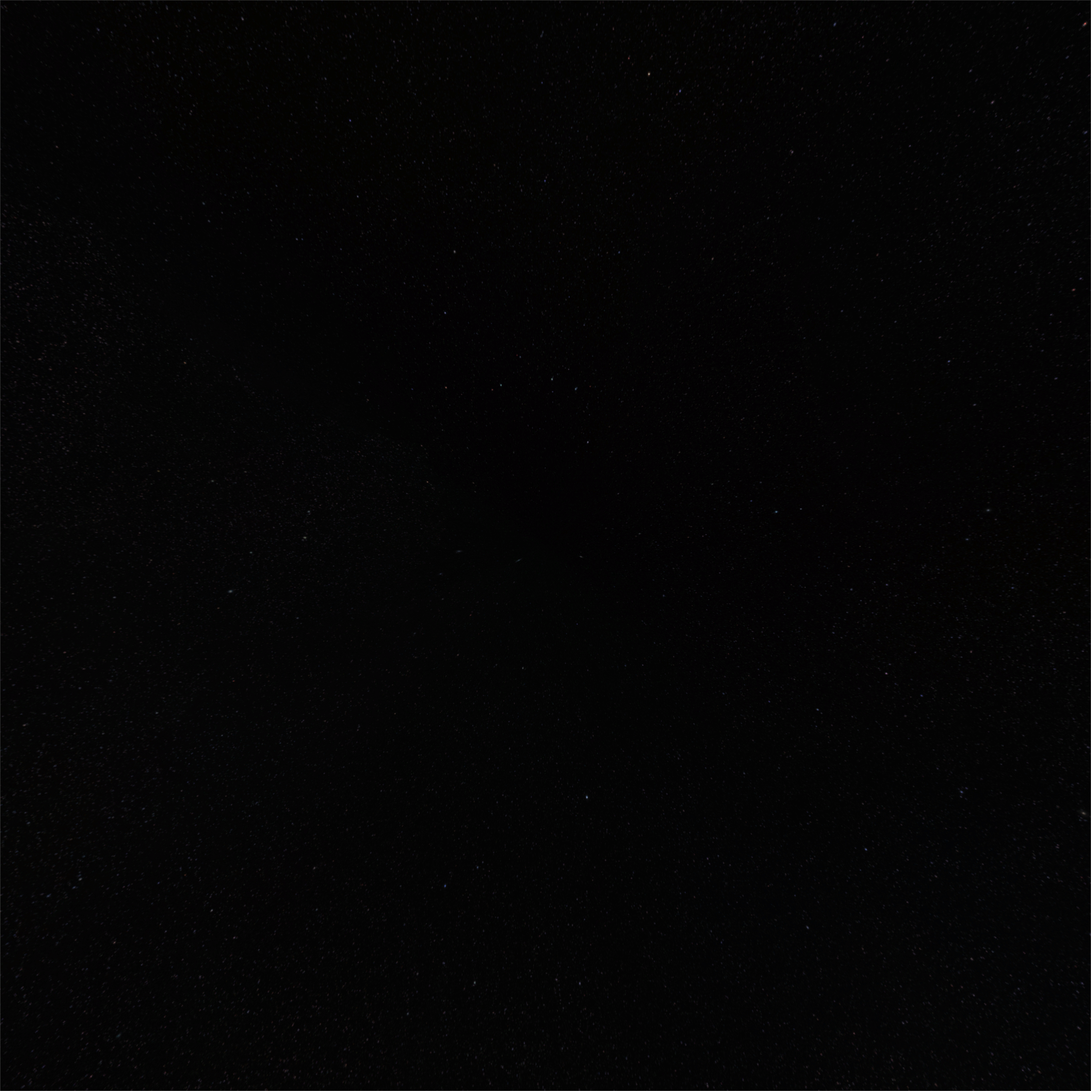
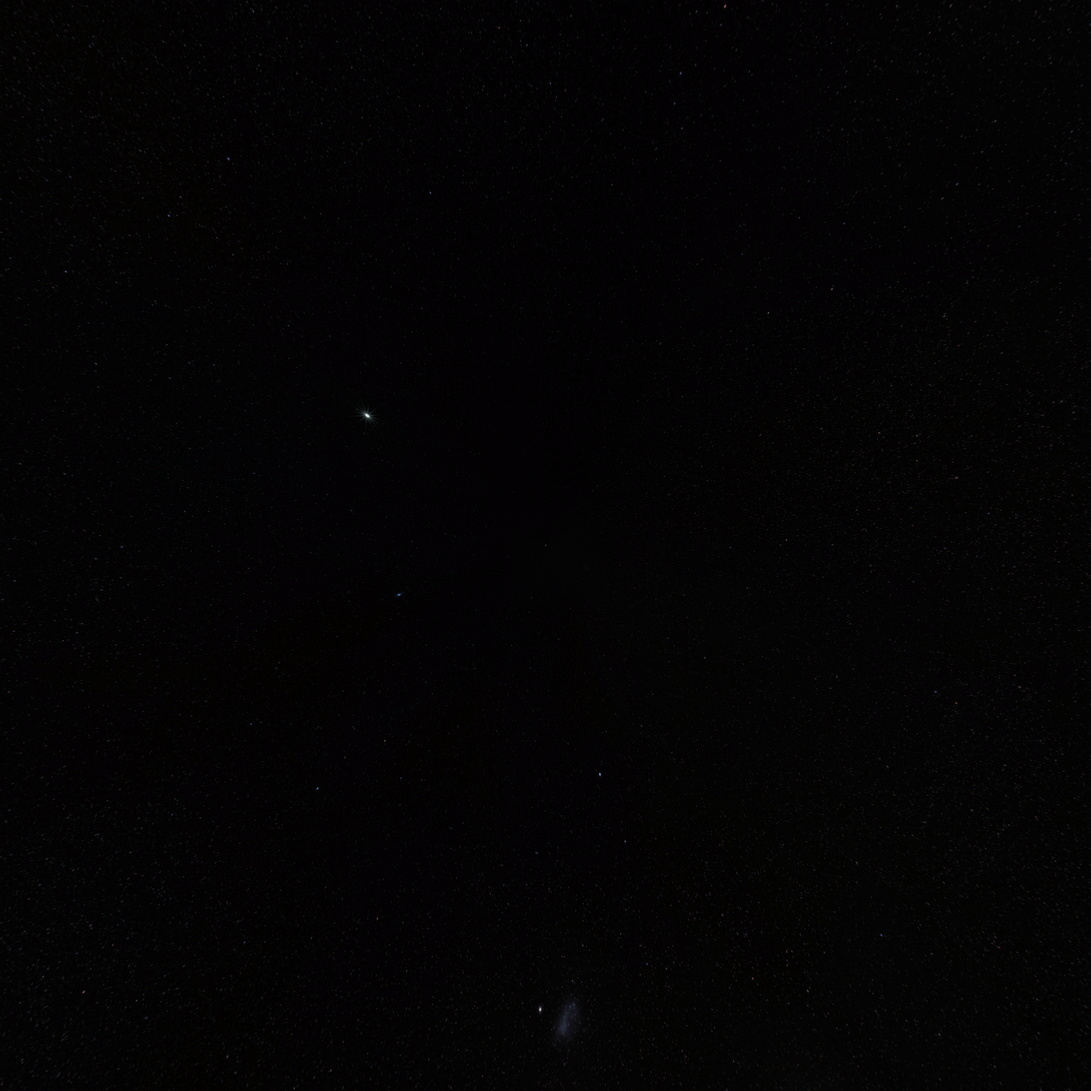
fix skybox, update light, set scale for Earth

Changed region(s): [[0.5, 0.9062, 0.5312, 0.9688]]

diff --git a/simulation.py b/simulation.py
@@ -4,7 +4,7 @@ import os
 import panda3d.core as p3d
 from direct.showbase.ShowBase import ShowBase
 from panda3d.core import Shader
-from panda3d.core import AmbientLight, DirectionalLight, PointLight, Spotlight
+from panda3d.core import AmbientLight, DirectionalLight
 from panda3d.core import CardMaker, NodePath, TransparencyAttrib, DepthTestAttrib, RenderAttrib, BillboardEffect
 from panda3d.core import LineSegs, LPoint3, LVector3
 
@@ -26,10 +26,20 @@ class App(ShowBase):
         super().__init__()
         self.pipeline = simplepbr.init()
 
+        self.central_node = self.render.attachNewNode("central_node")
+        self.central_node.setPos(0, 0, 0)
+        self.central_node.setR(23.5)
+        
         # Загрузка модели GLTF
         try:
+            radius = 6.371
             self.model = self.loader.loadModel("models/earth/scene.gltf")
-            self.model.reparentTo(self.render)
+            self.model.reparentTo(self.central_node)
+            pt1, pt2 = self.model.getTightBounds()
+            size = pt2.getX() - pt1.getX()
+            scale = radius / size
+            self.model.setScale(scale)
+            self.model.setPos(0, 0, 0)
             print("Model loaded successfully")
         except Exception as e:
             print(f"Error loading model: {e}")
@@ -38,7 +48,7 @@ class App(ShowBase):
         try:
             self.skybox_cubemap = self.loader.loadCubeMap("models/skybox/face_#.png")
             self.skybox = self.loader.loadModel("models/skybox/skybox.egg")
-            self.skybox.reparentTo(self.render)
+            self.skybox.reparentTo(self.central_node)
             self.skybox.setShader(Shader.load(Shader.SLGLSL, "shaders/skybox_vert.glsl", "shaders/skybox_frag.glsl"))
             self.skybox.setShaderInput("TexSkybox", self.skybox_cubemap)
             self.skybox.setAttrib(DepthTestAttrib.make(RenderAttrib.MLessEqual))
@@ -46,10 +56,6 @@ class App(ShowBase):
             print("Skybox loaded successfully")
         except Exception as e:
             print(f"Error loading skybox: {e}")
-
-        # Установка модели
-        self.model.setPos(0, 0, 0)
-        self.model.setScale(7)
 
         # Установка камеры
         self.camera.setPos(0, -40, 0)  # Отодвиньте камеру дальше
@@ -86,15 +92,12 @@ class App(ShowBase):
         self.accept("wheel_up", self.zoom_in)
         self.accept("wheel_down", self.zoom_out)
 
-
-        #self.setup_sprite(0, 0, 0)
-        #self.setup_orbit()
         self.setup_satellite()
 
     def setup_satellite(self):
-        self.satellites = [Satellite(a=200, e=0.7, i=np.radians(30), omega=np.radians(45), w=np.radians(60), m=np.radians(90)),
-                           Satellite(a=200, e=0.7, i=np.radians(30), omega=np.radians(45), w=np.radians(60), m=np.radians(270)),
-                           Satellite(a=100, e=0.1, i=np.radians(-57), omega=np.radians(50), w=np.radians(0), m=np.radians(0))]
+        self.satellites = [Satellite(a=40, e=0.7, i=np.radians(30), omega=np.radians(45), w=np.radians(60), m=np.radians(90)),
+                           Satellite(a=40, e=0.7, i=np.radians(30), omega=np.radians(45), w=np.radians(60), m=np.radians(270)),
+                           Satellite(a=6, e=0.1, i=np.radians(-57), omega=np.radians(50), w=np.radians(0), m=np.radians(0))]
         self.t0 = time.time()
         for satellite in self.satellites:
             x, y, z = satellite.position(self.t0, self.t0)
@@ -119,7 +122,7 @@ class App(ShowBase):
 
         # Количество сегментов для круга
         num_segments = 1000
-        orbit_points = satellite.orbit(1000)
+        orbit_points = satellite.orbit(num_segments)
 
         # Рисуем круг
         for x, y, z in orbit_points:
@@ -130,7 +133,7 @@ class App(ShowBase):
         orbit = NodePath(orbit_node)
 
         # Прикрепляем орбиту к сцене
-        orbit.reparent_to(self.model)
+        orbit.reparent_to(self.central_node)
         orbit.setLightOff()
 
         # Устанавливаем позицию орбиты относительно сцены
@@ -139,8 +142,9 @@ class App(ShowBase):
 
     def setup_sprite(self, x, y ,z):
         # Создаем CardMaker для создания спрайта
+        size = 0.5
         cm = CardMaker("sprite")
-        cm.set_frame(-1, 1, -1, 1)  # Размеры спрайта
+        cm.set_frame(-size, size, -size, size)  # Размеры спрайта
 
         # Создаем NodePath для спрайта
         sprite_node = cm.generate()
@@ -154,31 +158,16 @@ class App(ShowBase):
         sprite.set_transparency(TransparencyAttrib.M_alpha)
 
         # Прикрепляем спрайт к сцене
-        sprite.reparent_to(self.model)
+        sprite.reparent_to(self.central_node)
 
         # Устанавливаем позицию спрайта относительно сцены
         sprite.set_pos(x, y, z)  # Позиция спрайта в сцене
-        sprite.set_scale(5)  # Масштаб спрайта
 
         # Применяем эффект билборда, чтобы спрайт всегда был повернут к камере
         sprite.set_billboard_point_eye()
 
-        # Настраиваем спрайт, чтобы он не изменял размер при приближении камеры
-        sprite.setScale(5)
+        # Отключаем освещение для спрайта
         sprite.setLightOff()
-
-        def updateSpriteScale(task):
-            # Получаем расстояние от камеры до спрайта
-            distance = sprite.getPos(self.camera).length()
-
-            # Устанавливаем масштаб спрайта в зависимости от расстояния
-            scale = 3 * (np.sqrt(distance) / 20)
-            sprite.setScale(scale)
-
-            return task.cont
-
-        # Настраиваем обновление масштаба спрайта
-        self.taskMgr.add(updateSpriteScale, "updateSpriteScale")
 
         return sprite
 
@@ -193,25 +182,23 @@ class App(ShowBase):
         directionalLight = DirectionalLight("directionalLight")
         directionalLight.setDirection((LVector3(0, 1, 0)))
         directionalLight.setColor((5, 5, 5, 1))
-        directionalLightNode = self.render.attachNewNode(directionalLight)
-        self.render.setLight(directionalLightNode)
+        self.directionalLightNode = self.render.attachNewNode(directionalLight)
+        self.render.setLight(self.directionalLightNode)
 
-        '''# Создание точечного света
-        pointLight = PointLight("pointLight")
-        pointLight.setColor((1, 1, 1, 1))
-        pointLight.setAttenuation((1, 0, 0))
-        pointLightNode = self.render.attachNewNode(pointLight)
-        pointLightNode.setPos(0, 0, 10)
-        self.render.setLight(pointLightNode)
+        self.t1 = time.time()
+        self.taskMgr.add(self.update_light, "update_light")
 
-        # Создание прожекторного света
-        spotlight = Spotlight("spotlight")
-        spotlight.setColor((1, 1, 1, 1))
-        spotlight.setAttenuation((1, 0, 0))
-        spotlightNode = self.render.attachNewNode(spotlight)
-        spotlightNode.setPos(0, 0, 10)
-        spotlightNode.lookAt(0, 0, 0)
-        self.render.setLight(spotlightNode)'''
+    def update_light(self, task):
+        t = time.time()
+        delta_t = (self.t1 - t)
+        self.render.clearLight(self.directionalLightNode)
+        self.directionalLightNode.remove_node()
+        directionalLight = DirectionalLight("directionalLight")
+        directionalLight.setDirection((LVector3(-np.sin(np.radians(delta_t * 10)), np.cos(np.radians(delta_t * 10)), 0)))
+        directionalLight.setColor((5, 5, 5, 1))
+        self.directionalLightNode = self.render.attachNewNode(directionalLight)
+        self.render.setLight(self.directionalLightNode)
+        return task.again
 
     def start_rotation(self):
         # Сохранение начальной позиции мыши

diff --git a/satelite.py b/satelite.py
@@ -8,7 +8,7 @@ class Satellite:
         self.omega = omega # Долгота восходящего узла
         self.w = w # Аргумент перицентра 
         self.m = m # Средняя аномалия
-        self.mu = mu  # Гравитационный параметр
+        self.mu = mu # Гравитационный параметр
 
     def mean_motion(self):
         return np.sqrt(self.mu / self.a**3)
@@ -45,7 +45,6 @@ class Satellite:
         x_eq = x_orb * (np.cos(self.omega) * np.cos(self.w) - np.sin(self.omega) * np.sin(self.w) * np.cos(self.i)) - y_orb * (np.sin(self.omega) * np.cos(self.w) + np.cos(self.omega) * np.sin(self.w) * np.cos(self.i))
         y_eq = x_orb * (np.cos(self.omega) * np.sin(self.w) + np.sin(self.omega) * np.cos(self.w) * np.cos(self.i)) + y_orb * (np.cos(self.omega) * np.cos(self.w) - np.sin(self.omega) * np.sin(self.w) * np.cos(self.i))
         z_eq = x_orb * np.sin(self.i) * np.sin(self.w) + y_orb * np.sin(self.i) * np.cos(self.w)
-
 
         return x_eq, y_eq, z_eq
     
